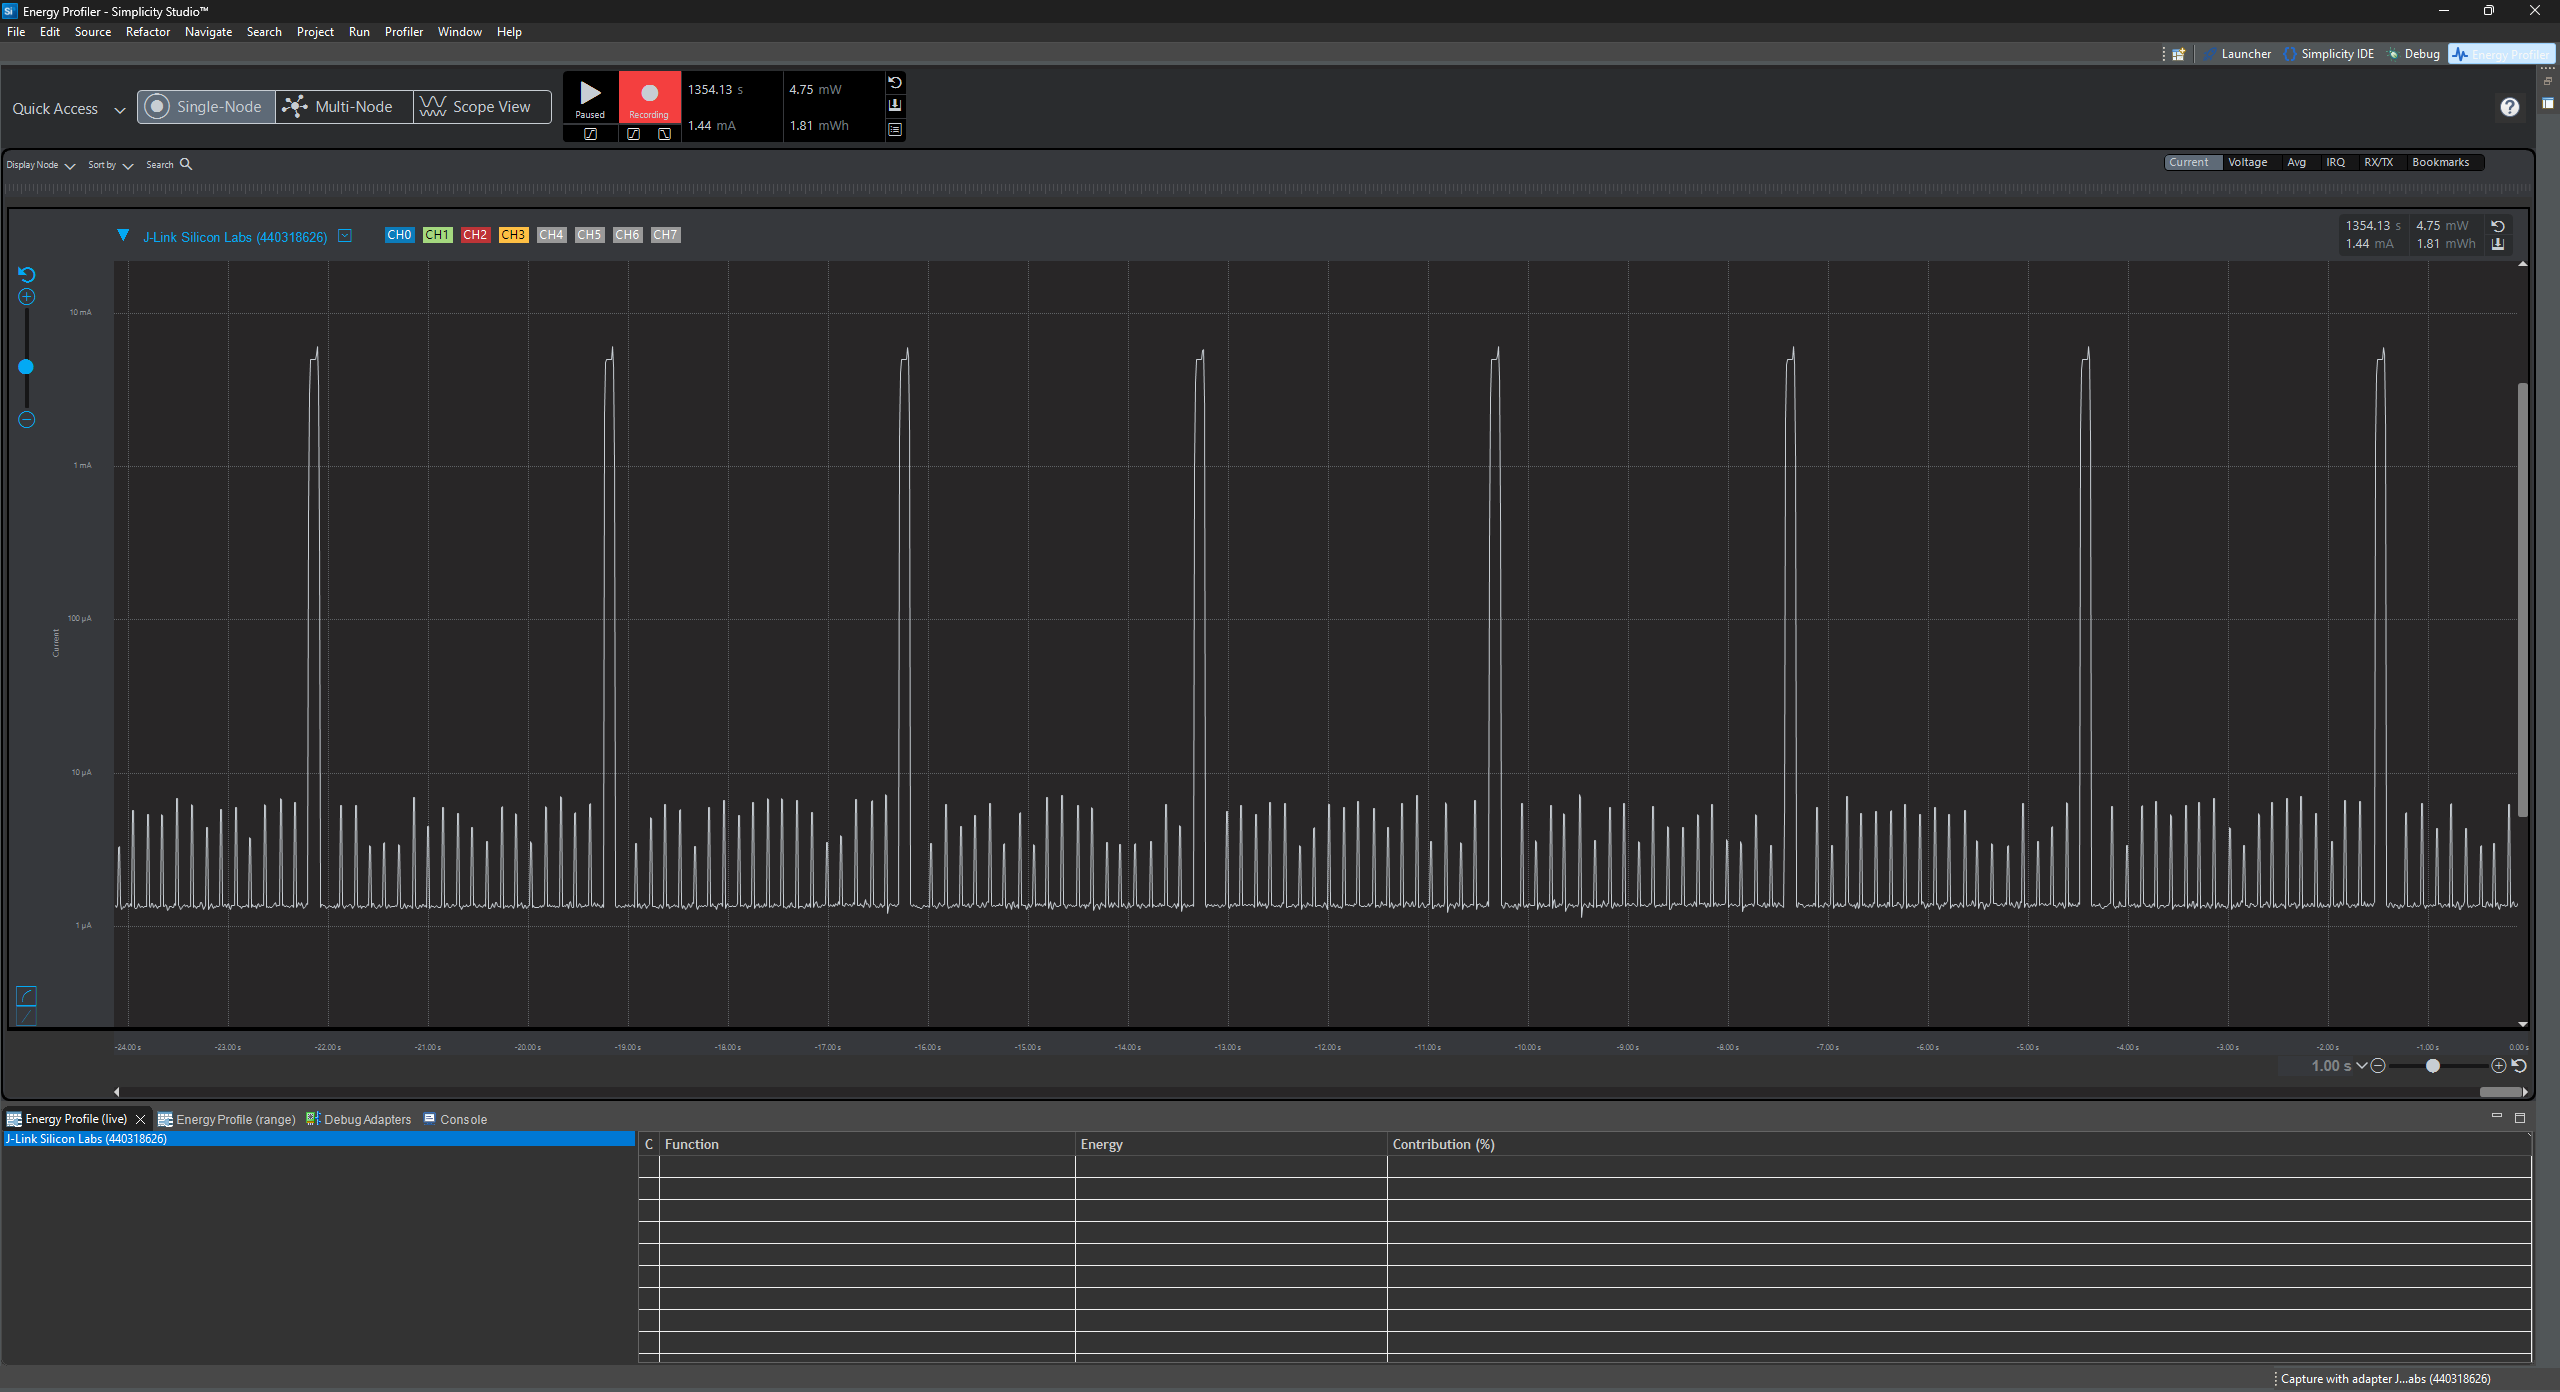
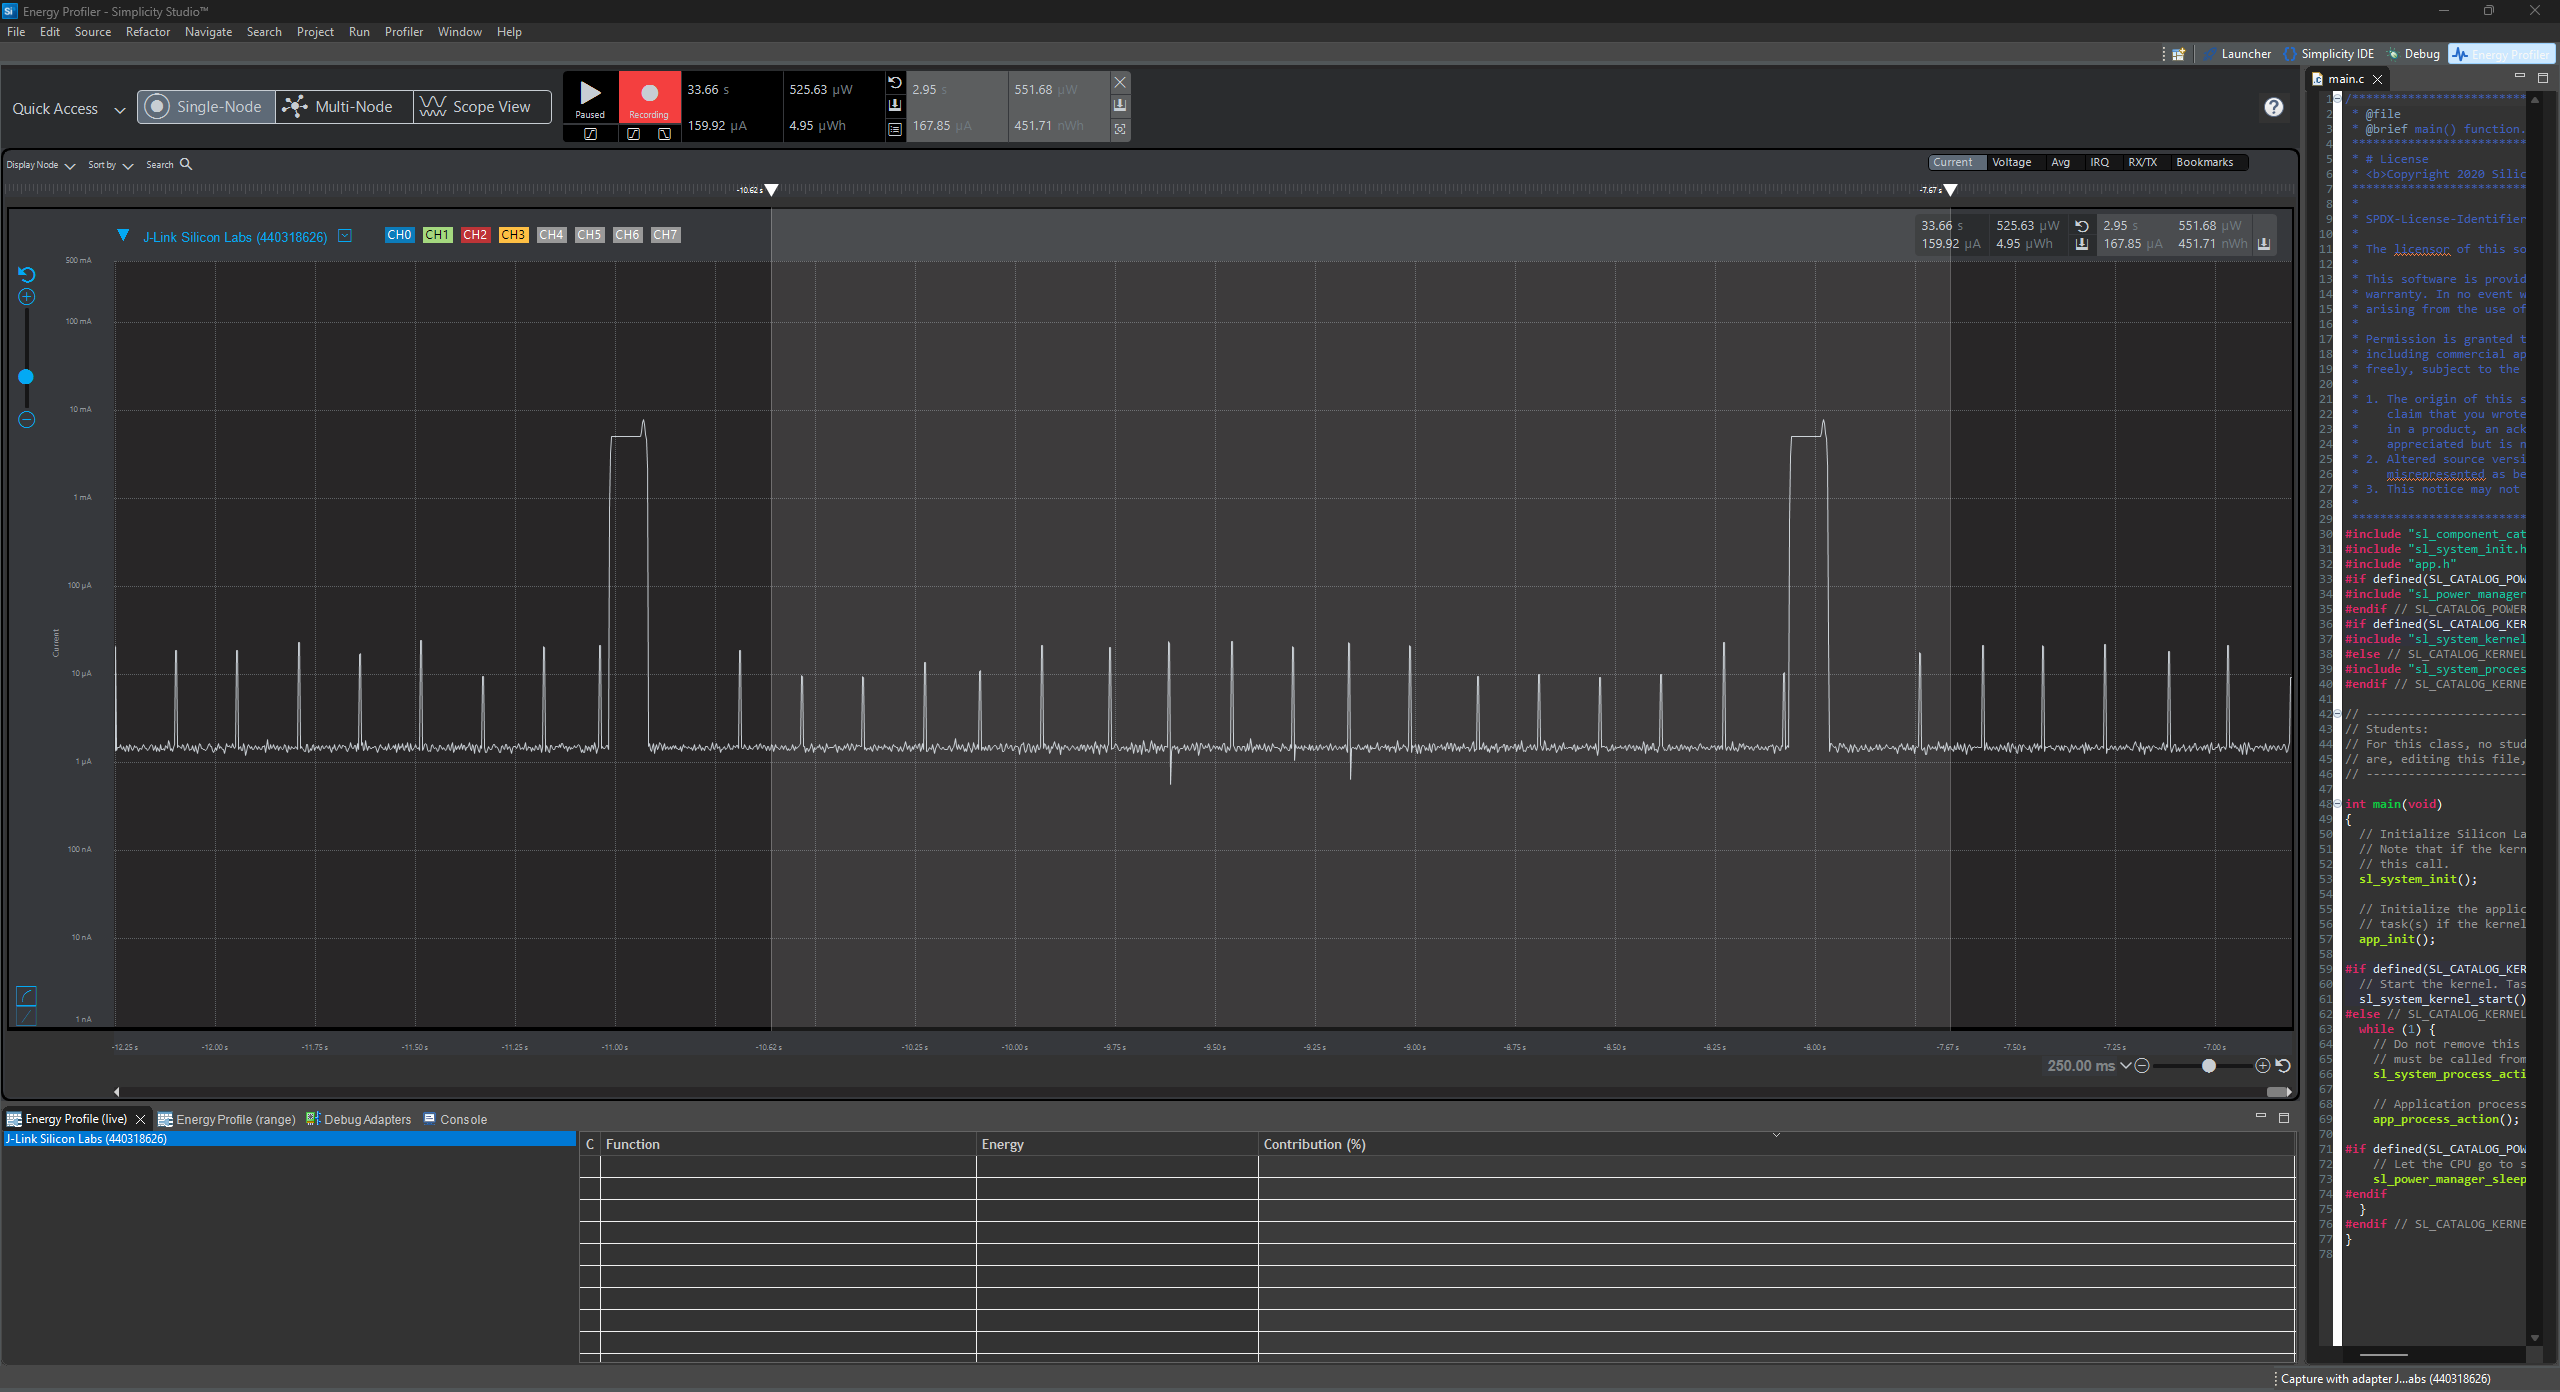
Finished A4

diff --git a/questions/Assignment4-I2CLoadPowerManagementPart2.md b/questions/Assignment4-I2CLoadPowerManagementPart2.md
@@ -6,30 +6,30 @@ See [Mastering Markdown](https://guides.github.com/features/mastering-markdown/)
 *Please include screenshots of the profiler window detailing each current measurement captured.  See the file Instructions to add screenshots in assignment.docx in the ECEN 5823 Student Public Folder.* 
 
 1. What is the average current per period? (Remember, once you have measured your average current, average current is average current over all time. Average current doesn’t carry with it the units of the timespan over which it was measured).
-   Answer:
+   Answer: 32.28uA
    <br>Screenshot:  
-   ![Avg_current_per_period](screenshots/assignment4/avg_current_per_period.jpg)  
+   ![Avg_current_per_period](screenshots/assignment4/avg_current_per_period_irq.png)  
 
 2. What is the ave current from the time we sleep the MCU to EM3 until we power-on the 7021 in response to the LETIMER0 UF IRQ?
-   Answer:
+   Answer: 1.83uA
    <br>Screenshot:  
-   ![Avg_current_LPM_Off](screenshots/assignment4/avg_current_lpm_off.jpg)  
+   ![Avg_current_LPM_Off](screenshots/assignment4/avg_current_lpm_off_irq.png)  
 
 3. What is the ave current from the time we power-on the 7021 until we get the COMP1 IRQ indicating that the 7021's maximum time for conversion (measurement) has expired.
-   Answer:
+   Answer: 922.85uA
    <br>Screenshot:  
-   ![Avg_current_LPM_Off](screenshots/assignment4/avg_current_lpm_on.jpg)  
+   ![Avg_current_LPM_On](screenshots/assignment4/avg_current_lpm_on_irq.png)  
 
 4. How long is the Si7021 Powered On for 1 temperature reading?
-   Answer:
+   Answer: 99.94ms
    <br>Screenshot:  
-   ![duration_lpm_on](screenshots/assignment4/avg_current_lpm_on.jpg)  
+   ![duration_lpm_on](screenshots/assignment4/avg_current_lpm_on_irq.png)  
 
 5. Given the average current per period from Q1, calculate the operating time of the system for a 1000mAh battery? - ignoring battery manufacturers, efficiencies and battery derating - just a first-order calculation.
-   Answer (in hours):
+   Answer (in hours): 1000mAh / 32.28uA = 30,979 hours = 3.54 years
    
 6. How has the power consumption performance of your design changed since the previous assignment?
-   Answer:
+   Answer: The power consumption when sleeping is effectively the same. However, by sleeping while powering on the SI7021, the on-time current was reduced by ~82%. This translated to a ~80% reduction in average current, as the idle current did not change at all.
    
 
 